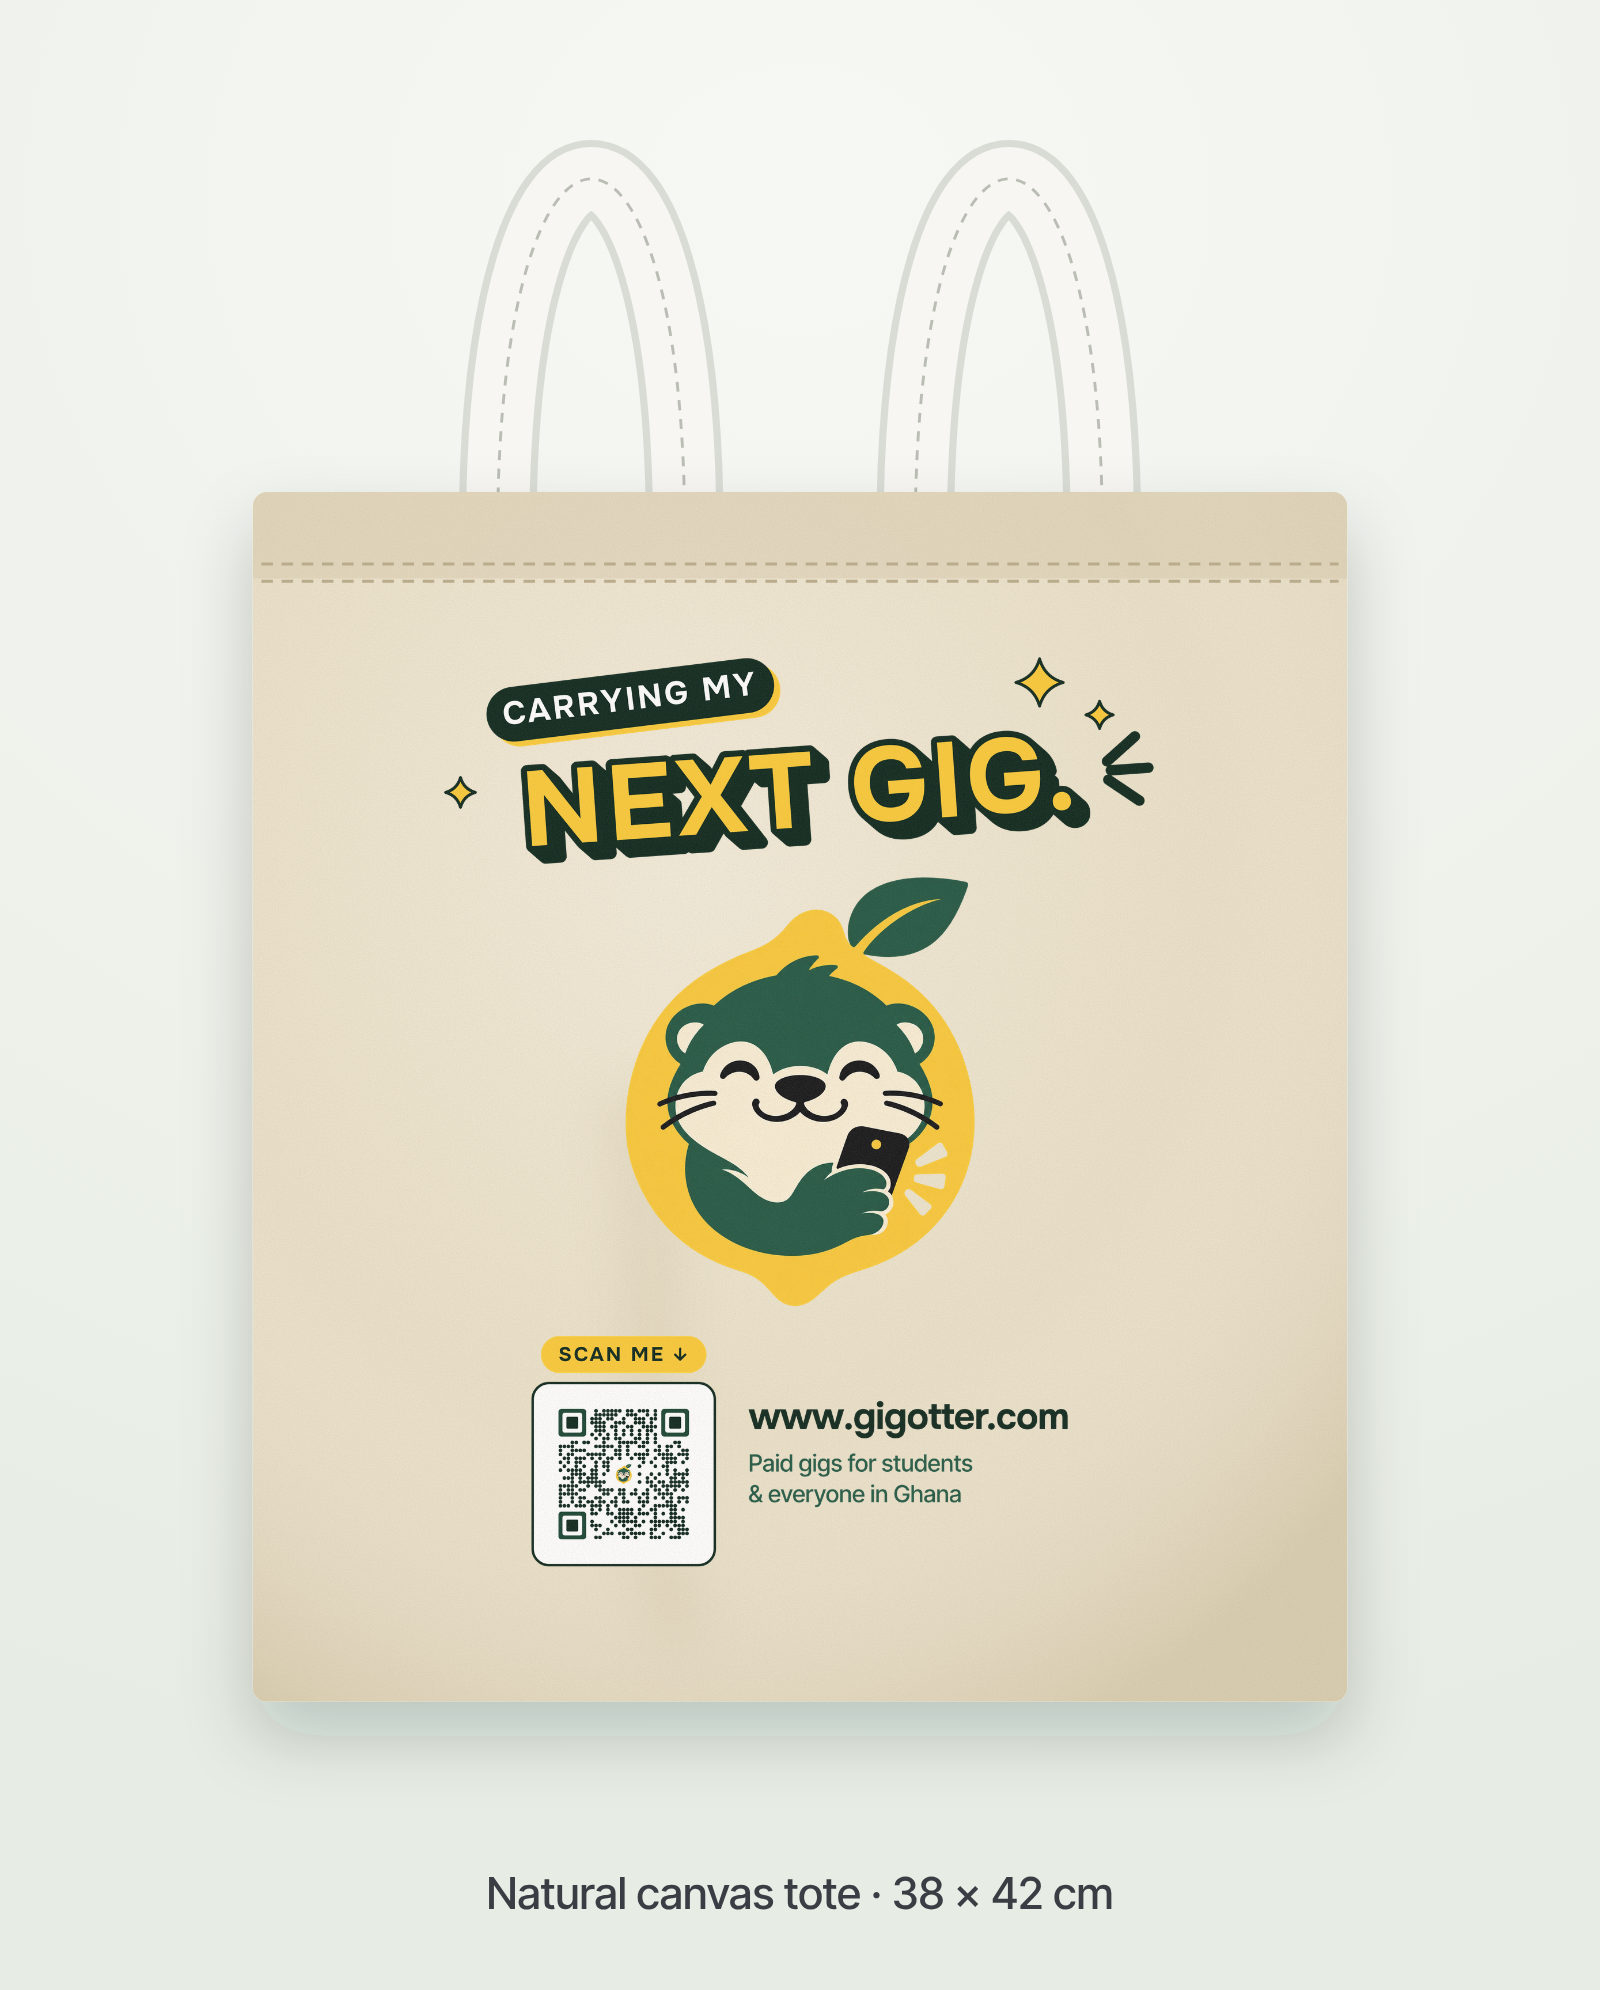
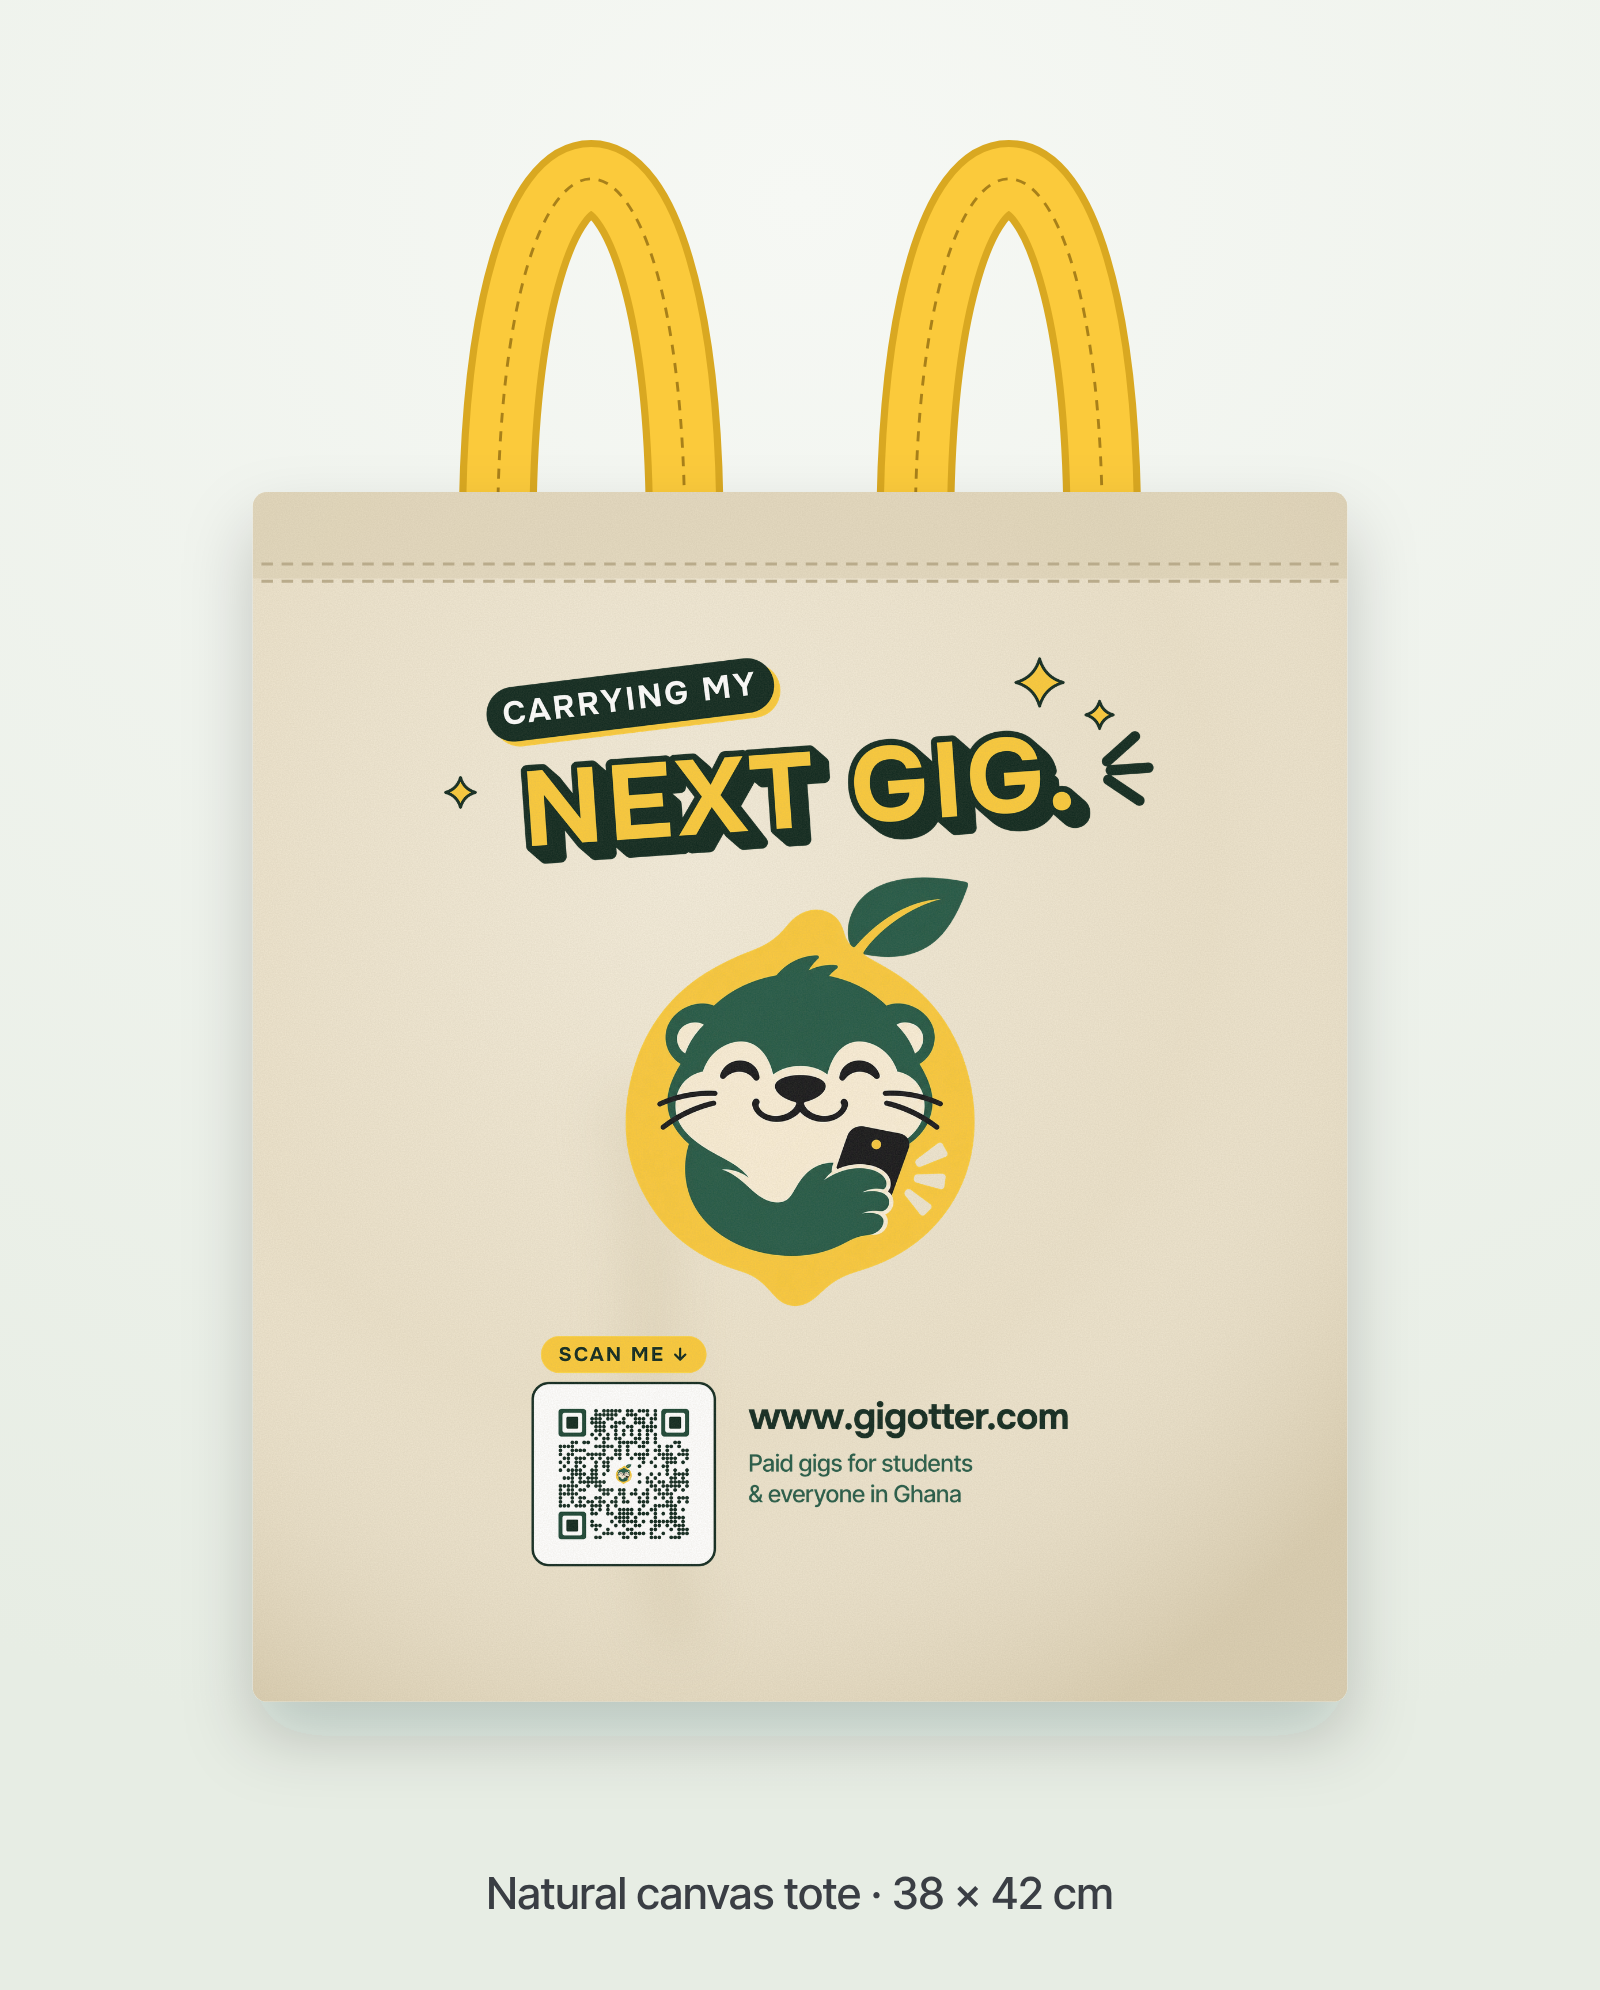
Tote mockup: yellow handles on the green bag
Claude-Session: https://claude.ai/code/session_01E2vaLUqDfRKS7n3VPqTwzA

Changed region(s): [[0.5312, 0.0623, 0.7188, 0.2492], [0.2812, 0.0623, 0.4688, 0.2492]]

diff --git a/docs/brand/tote/build/mockup.py b/docs/brand/tote/build/mockup.py
@@ -16,7 +16,7 @@ ARTS = {k: uri(OUT / f'dtf-tote-{k}.png', 1300) for k in ('canvas', 'green')}
 U = 20                                   # units per cm: tote body 38 cm = 760 units
 X0, Y0, BW, BH = 120, 300, 38 * U, 42 * U
 BAGS = {'canvas': ('#ECE2CB', '#D6C9AB', '#F7F1E2', '#B9AB8B'), 'green': ('#173a2b', '#0f2a1f', '#2a5340', '#4E7A63')}  # body, shade, highlight, stitch
-H_GREEN, H_SHADE, H_STITCH = '#F7F6F2', '#D9DCD5', '#B9BDB4'   # white handles
+H_GREEN, H_SHADE, H_STITCH = '#FBCA3B', '#D9A821', '#A8801A'   # yellow handles
 
 def tote(uid, bag='green'):
     CANVAS, SHADE, HI, STITCH = BAGS[bag]; ART, ART_R = ARTS[bag]

diff --git a/docs/brand/tote/README.md b/docs/brand/tote/README.md
@@ -1,6 +1,6 @@
 # Gigotter tote bag: DTF print files
 
-**Recommended: deep green tote** (hides dirt, matches the green T-shirt) with **white handles**. Order "bottle green / dark green cotton canvas totes with white (contrast) handles". A natural canvas version is kept as an option.
+**Recommended: deep green tote** (hides dirt, matches the green T-shirt) with **yellow handles**. Order "bottle green / dark green cotton canvas totes with yellow (contrast) handles", as close to the logo yellow (#FBCA3B) as the supplier has. A natural canvas version is kept as an option.
 
 Printed on **one side**. Design: a tilted "CARRYING MY" sticker over a 3D "NEXT GIG.", the big otter logo, and a "SCAN ME" QR code to **https://gigotter.com** with www.gigotter.com and "Paid gigs for students & everyone in Ghana".
 
